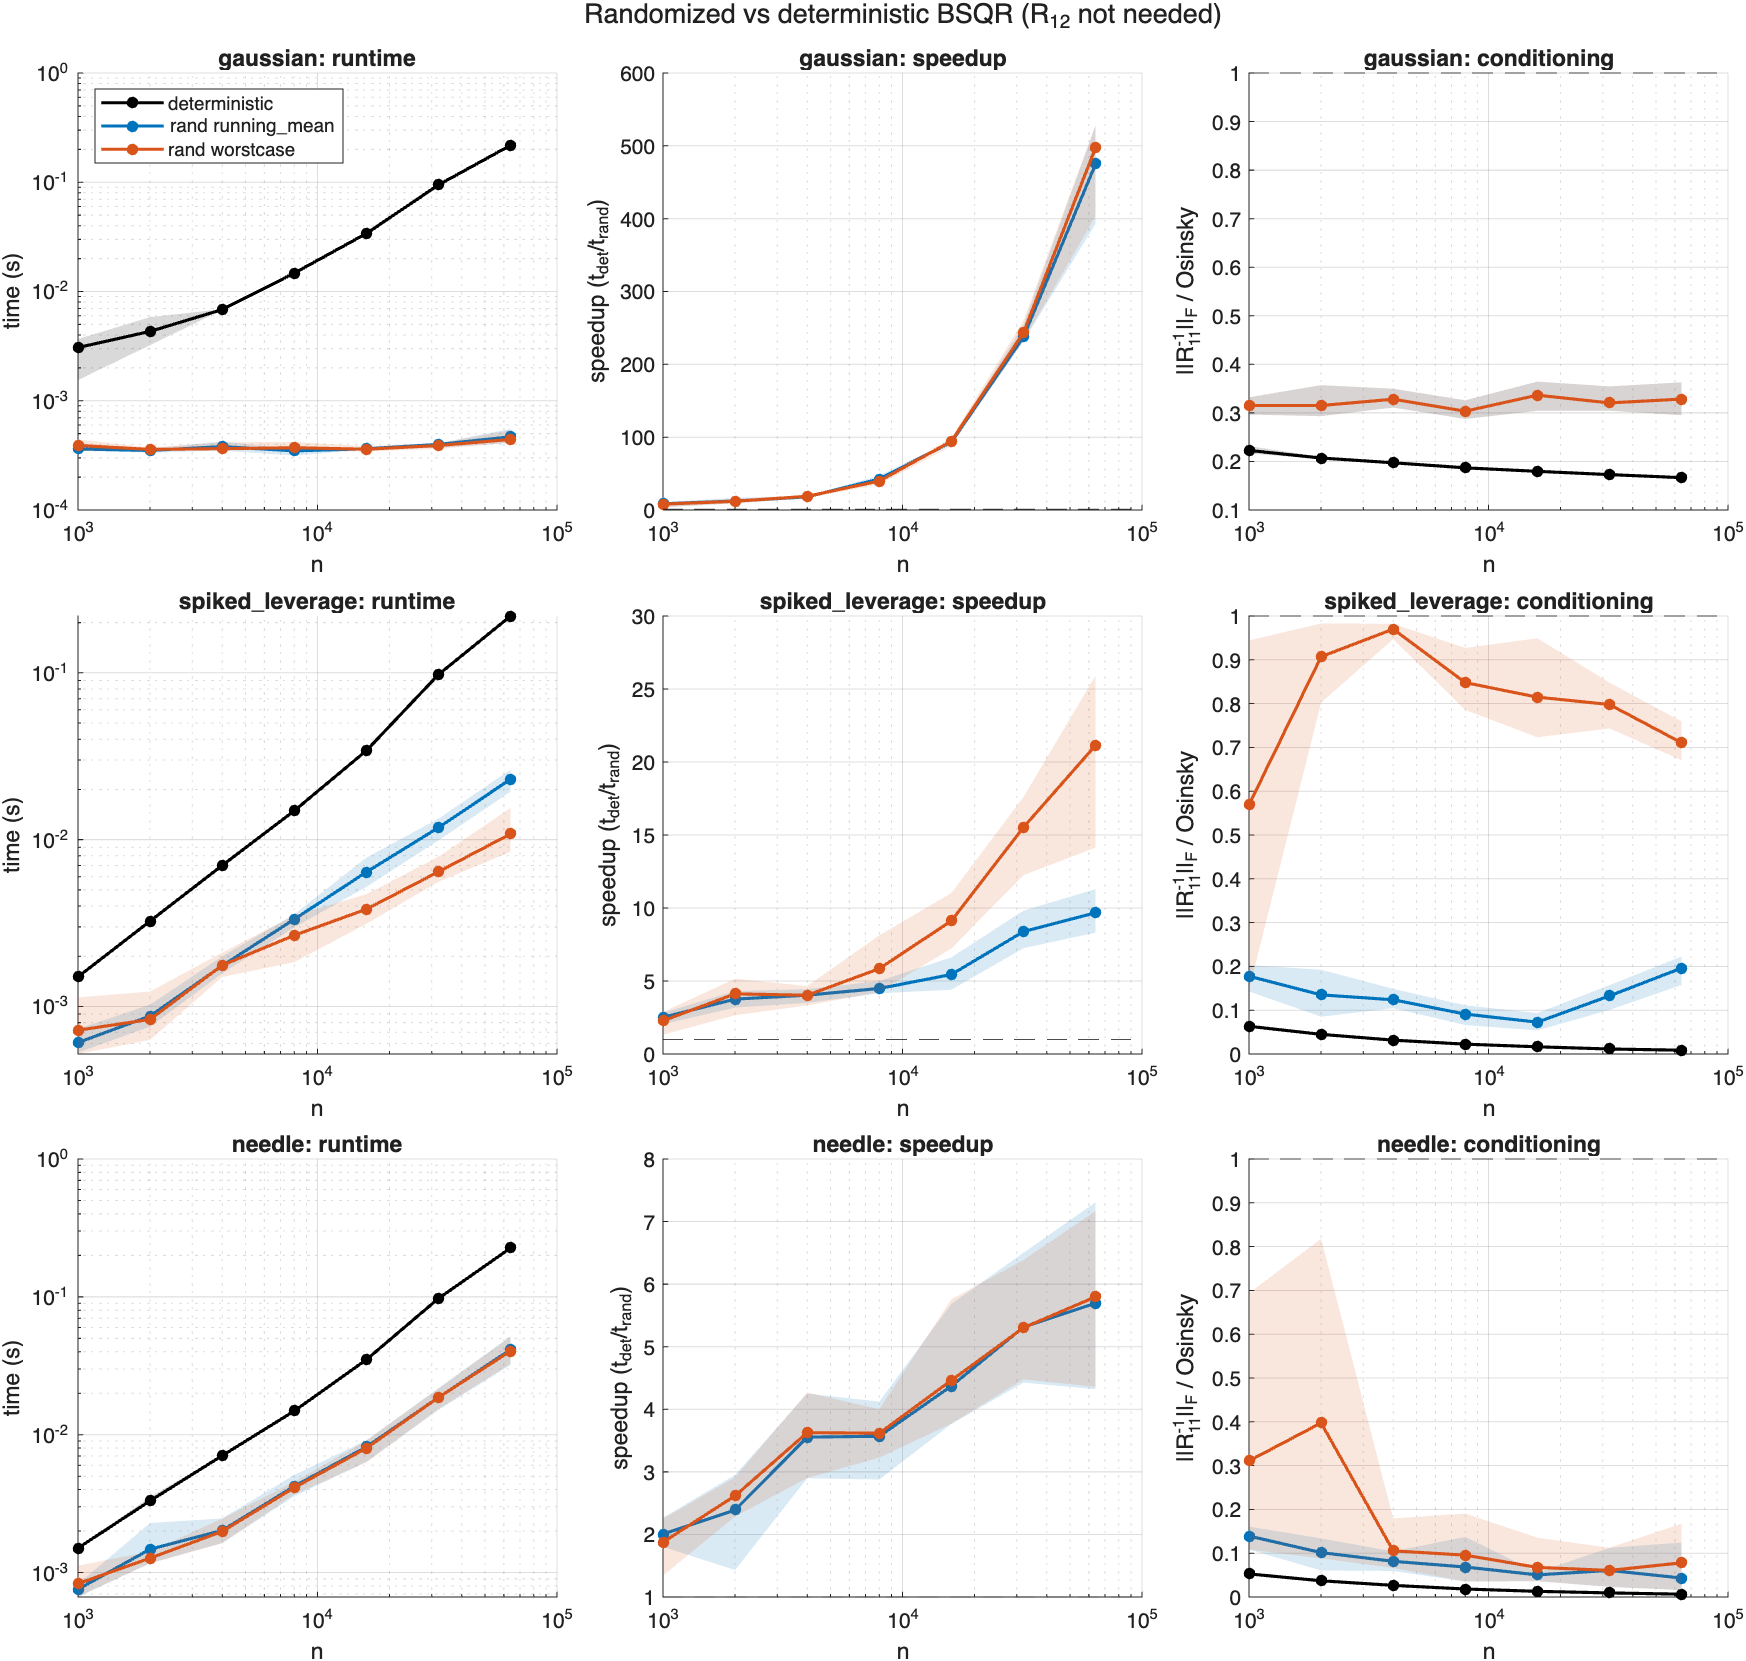
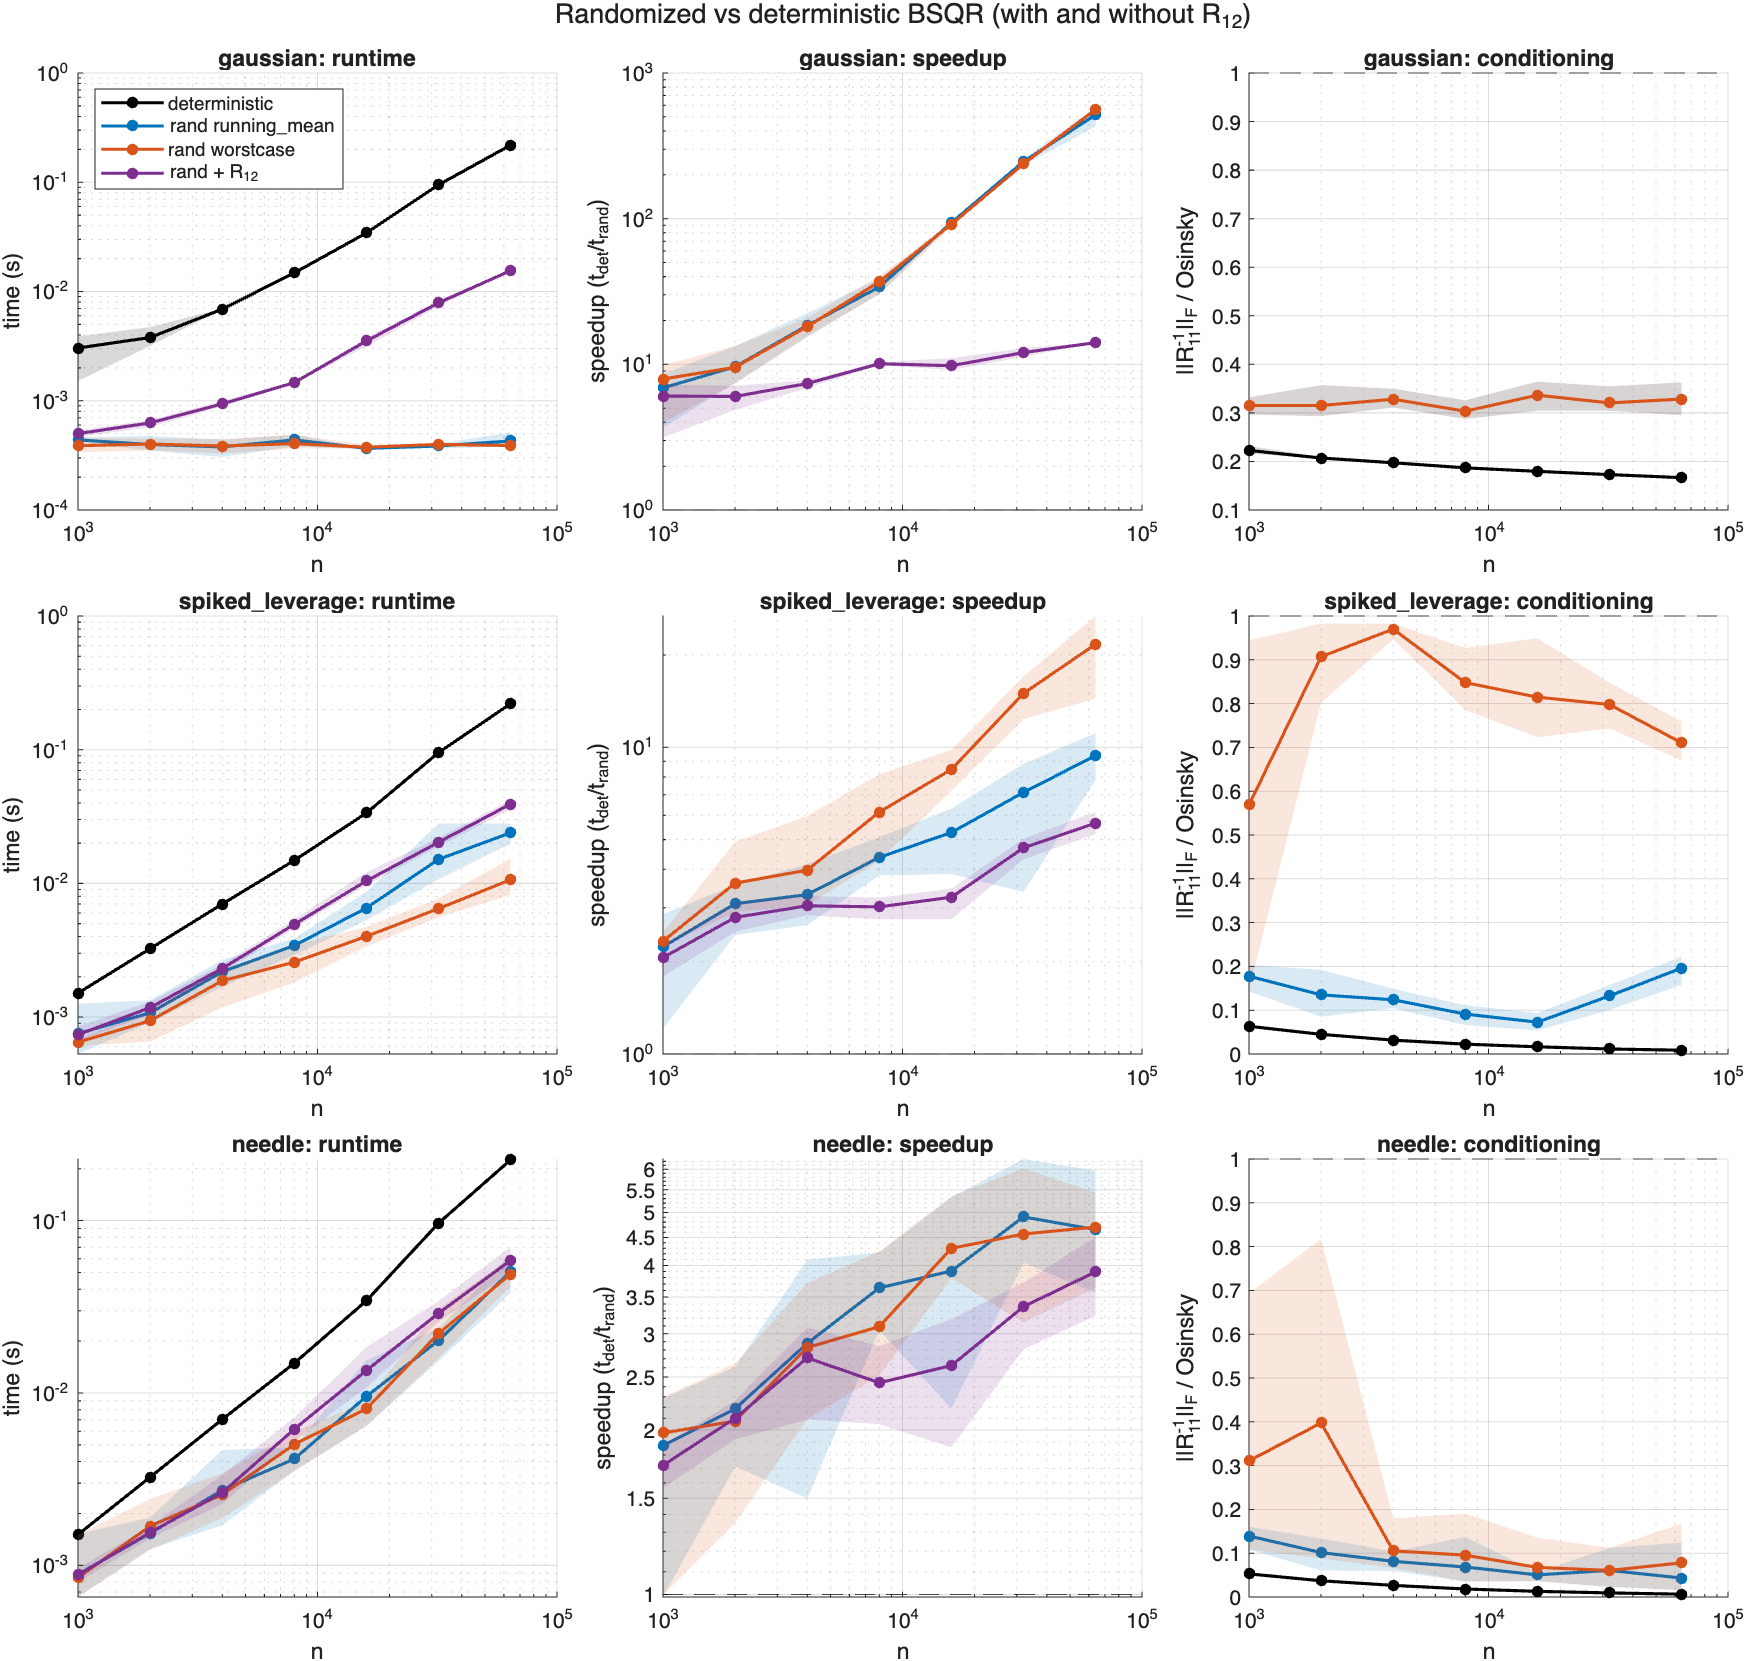
Add R12-desired performance measurement to the randomized BSQR study
When R12 is needed the randomized variant must apply the accumulated Q' to the
n-k leftover columns -- one O(nk^2) BLAS-3 pass, the same order as the
deterministic kernel's total work -- so the dramatic n-scaling collapses to a
constant factor. This adds that measurement everywhere:

- measure_rand gains a return_r12 flag (times the full 5-output call, nargout=5).
- exp_scaling adds a rand_r12 series (running_mean, uniform, return_r12).
- run_rand_benchmarks prints a running_mean+R12 row per size.
- fig_scaling gains the "rand + R12" line; speedup panels switched to log-y so
  the R12 line (~14x) and the no-R12 line (~500x) are both legible.

Findings (gaussian, k=64): with R12 the speedup settles at ~6x -> 10x -> 14x over
n = 1000 -> 8000 -> 64000 (vs 7x -> 34x -> 517x without R12); stress families
~4-6x. Still a win (one clean Q'-apply vs per-step W-maintenance), but the
order-of-magnitude advantage is specific to the R12-not-needed use case. Docs
sec 4/11 updated.

diff --git a/matlab_rand/benchmark/plot_rand_experiments.m b/matlab_rand/benchmark/plot_rand_experiments.m
@@ -29,6 +29,7 @@ end
 if ~isfolder(opt.plotdir); mkdir(opt.plotdir); end
 
 C = struct('det', [0 0 0], 'rm', [0.00 0.45 0.74], 'wc', [0.85 0.33 0.10], ...
+    'r12', [0.49 0.18 0.56], ...
     'uniform', [0.00 0.45 0.74], 'normweighted', [0.47 0.67 0.19]);
 
 plot_scaling(opt, C);
@@ -53,14 +54,16 @@ for fi = 1:numel(fams)
     band_line(ax, T, base & T.method == "det", 'n', 'time_s', C.det, 'deterministic');
     band_line(ax, T, base & T.method == "rand" & T.mode == "running_mean", 'n', 'time_s', C.rm, 'rand running\_mean');
     band_line(ax, T, base & T.method == "rand" & T.mode == "worstcase_allowance", 'n', 'time_s', C.wc, 'rand worstcase');
+    band_line(ax, T, base & T.method == "rand_r12", 'n', 'time_s', C.r12, 'rand + R_{12}');
     grid(ax, 'on'); xlabel(ax, 'n'); ylabel(ax, 'time (s)');
     title(ax, sprintf('%s: runtime', fam), 'Interpreter', 'none');
     if fi == 1; legend(ax, 'Location', 'northwest'); end
 
     % (2) speedup vs n (per seed det/rand ratio)
-    ax = nexttile(tl); hold(ax, 'on'); set(ax, 'XScale', 'log');
-    speedup_line(ax, T, base, 'running_mean', C.rm, 'running\_mean');
-    speedup_line(ax, T, base, 'worstcase_allowance', C.wc, 'worstcase');
+    ax = nexttile(tl); hold(ax, 'on'); set(ax, 'XScale', 'log', 'YScale', 'log');
+    speedup_line(ax, T, base, 'rand', 'running_mean', C.rm, 'running\_mean');
+    speedup_line(ax, T, base, 'rand', 'worstcase_allowance', C.wc, 'worstcase');
+    speedup_line(ax, T, base, 'rand_r12', 'running_mean', C.r12, 'rand + R_{12}');
     yline(ax, 1, 'k--', 'HandleVisibility', 'off');
     grid(ax, 'on'); xlabel(ax, 'n'); ylabel(ax, 'speedup (t_{det}/t_{rand})');
     title(ax, sprintf('%s: speedup', fam), 'Interpreter', 'none');
@@ -74,7 +77,7 @@ for fi = 1:numel(fams)
     grid(ax, 'on'); xlabel(ax, 'n'); ylabel(ax, '||R_{11}^{-1}||_F / Osinsky');
     title(ax, sprintf('%s: conditioning', fam), 'Interpreter', 'none');
 end
-title(tl, 'Randomized vs deterministic BSQR (R_{12} not needed)');
+title(tl, 'Randomized vs deterministic BSQR (with and without R_{12})');
 save_fig(fig, fullfile(opt.plotdir, 'fig_scaling'), opt.formats);
 end
 
@@ -168,7 +171,7 @@ plot(ax, x, ym, '-o', 'Color', color, 'MarkerFaceColor', color, ...
     'LineWidth', 1.5, 'MarkerSize', 4, 'DisplayName', name);
 end
 
-function speedup_line(ax, T, base, mode, color, name)
+function speedup_line(ax, T, base, method, mode, color, name)
 ns = unique(T.n(base));
 x = ns; ym = zeros(size(x)); ylo = ym; yhi = ym;
 for i = 1:numel(ns)
@@ -176,7 +179,7 @@ for i = 1:numel(ns)
     sp = [];
     for s = sd'
         td = T.time_s(base & T.method == "det" & T.n == ns(i) & T.seed == s);
-        tr = T.time_s(base & T.method == "rand" & T.mode == string(mode) & T.n == ns(i) & T.seed == s);
+        tr = T.time_s(base & T.method == string(method) & T.mode == string(mode) & T.n == ns(i) & T.seed == s);
         if ~isempty(td) && ~isempty(tr); sp(end+1) = td(1) / tr(1); end %#ok<AGROW>
     end
     ym(i) = mean(sp); ylo(i) = min(sp); yhi(i) = max(sp);

diff --git a/matlab_rand/benchmark/run_rand_experiments.m b/matlab_rand/benchmark/run_rand_experiments.m
@@ -63,6 +63,12 @@ for fi = 1:numel(families)
                 rows(end+1, :) = {fam, k, n, s, 'rand', modes{mi}, 'uniform', 16, ...
                     r.time, r.frobinv, r.osinsky, r.tested_per_k}; %#ok<AGROW>
             end
+            % R12 desired: same selection (running_mean, uniform) plus the final
+            % Q'-apply to the leftover columns. Quantifies the advantage lost
+            % when R12 cannot be skipped.
+            r = measure_rand(M, k, 'running_mean', 'uniform', 16, 1000 * fi + s, true);
+            rows(end+1, :) = {fam, k, n, s, 'rand_r12', 'running_mean', 'uniform', 16, ...
+                r.time, r.frobinv, r.osinsky, r.tested_per_k}; %#ok<AGROW>
         end
         fprintf('  scaling %-16s n=%-6d done\n', fam, n);
     end
@@ -116,11 +122,22 @@ write_rows(rows, fullfile(opt.outdir, 'exp_sampling.csv'));
 end
 
 % ===========================================================================
-function out = measure_rand(M, k, mode, sampling, block, seed)
-f = @() bsqr_rand_mex(M, 'k', k, 'check_finite', false, 'block_size', block, ...
-    'threshold_mode', mode, 'sampling', sampling, 'seed', seed);
-out.time = timeit(f, 3);
-[~, ~, ~, st] = f();
+function out = measure_rand(M, k, mode, sampling, block, seed, return_r12)
+if nargin < 7; return_r12 = false; end
+if return_r12
+    % R12 desired: the kernel must apply the accumulated Q' to the leftover
+    % columns (one O(n k^2) pass). Time the full 5-output call.
+    f = @() bsqr_rand_mex(M, 'k', k, 'check_finite', false, 'block_size', block, ...
+        'threshold_mode', mode, 'sampling', sampling, 'return_r12', true, 'seed', seed);
+    out.time = timeit(f, 5);
+    [~, ~, ~, st] = bsqr_rand_mex(M, 'k', k, 'check_finite', false, 'block_size', block, ...
+        'threshold_mode', mode, 'sampling', sampling, 'return_r12', true, 'seed', seed);
+else
+    f = @() bsqr_rand_mex(M, 'k', k, 'check_finite', false, 'block_size', block, ...
+        'threshold_mode', mode, 'sampling', sampling, 'seed', seed);
+    out.time = timeit(f, 3);
+    [~, ~, ~, st] = f();
+end
 out.frobinv = st.frob_inv;
 out.osinsky = st.osinsky_bound;
 out.tested_per_k = st.total_tested / k;

diff --git a/matlab_rand/benchmark/run_rand_benchmarks.m b/matlab_rand/benchmark/run_rand_benchmarks.m
@@ -71,6 +71,21 @@ for ci = 1:numel(opt.sizes)
         rows(end+1, :) = {opt.family, k, n, mode, t_rand, t_det, speedup, ...
             st.frob_inv, frobinv_det, st.osinsky_bound, st.total_tested/k}; %#ok<AGROW>
     end
+
+    % R12 desired: running_mean selection plus the final Q'-apply to the
+    % leftover columns (the O(n k^2) work the deterministic baseline already
+    % includes in R). Shows how much speedup survives when R12 is required.
+    t_r12 = timeit(@() bsqr_rand_mex(M, 'k', k, 'check_finite', false, ...
+        'block_size', opt.block_size, 'threshold_mode', 'running_mean', ...
+        'return_r12', true, 'seed', opt.seed + ci), 5);
+    [~, ~, ~, st12] = bsqr_rand_mex(M, 'k', k, 'check_finite', false, ...
+        'block_size', opt.block_size, 'threshold_mode', 'running_mean', ...
+        'return_r12', true, 'seed', opt.seed + ci);
+    fprintf('%-12s %-20s %11.3f %11.3f %8.2f %8.2f %9.1f\n', ...
+        sprintf('%dx%d', k, n), 'running_mean+R12', t_r12*1e3, t_det*1e3, ...
+        t_det/t_r12, st12.frob_inv/frobinv_det, st12.total_tested/k);
+    rows(end+1, :) = {opt.family, k, n, 'running_mean+R12', t_r12, t_det, t_det/t_r12, ...
+        st12.frob_inv, frobinv_det, st12.osinsky_bound, st12.total_tested/k}; %#ok<AGROW>
 end
 
 results = cell2table(rows, 'VariableNames', {'family', 'k', 'n', 'mode', ...

diff --git a/docs/RANDOMIZED_BSQR_PLAN.md b/docs/RANDOMIZED_BSQR_PLAN.md
@@ -204,9 +204,9 @@ columns), `coherent` (clustered/redundant columns), `needle` (~k useful columns
 hidden among n near-null ones — hardest for uniform sampling). The sampler's cost
 is set by how concentrated the leverage `ell_j = ||M(:,j)||^2` is.
 
-1. **`fig_scaling`** — time, speedup `t_det/t_rand`, and conditioning
-   `||R11^{-1}||_F / sqrt(k(n-k+1))` vs `n` (per family), deterministic vs both
-   threshold modes.
+1. **`fig_scaling`** — time, speedup `t_det/t_rand` (log-y), and conditioning
+   `||R11^{-1}||_F / sqrt(k(n-k+1))` vs `n` (per family): deterministic vs both
+   threshold modes vs the **R12-desired** randomized path (`rand + R12`).
 2. **`fig_blocksize`** — time, columns tested/`k`, and conditioning vs block
    size, uniform vs norm-weighted sampling.
 3. **`fig_sampling`** — uniform vs norm-weighted across all families
@@ -220,6 +220,17 @@ is set by how concentrated the leverage `ell_j = ||M(:,j)||^2` is.
   `1000 → 8000 → 32000 → 64000`. On the stress families with *uniform* sampling
   the win is smaller (≈6–10× at n=64000) because the sampler tests many columns —
   fixed by norm-weighted sampling (below).
+- **When R12 *is* needed** (the `rand_r12` series / `fig_scaling` purple line),
+  the randomized method must apply the accumulated `Q'` to the `n-k` leftover
+  columns — one `O(nk^2)` BLAS-3 pass, the same order as the deterministic
+  kernel's total work. The dramatic n-scaling therefore collapses to a constant
+  factor: `gaussian` `t_det/t_rand` settles at `~6× → 10× → 14×` over
+  `n = 1000 → 8000 → 64000` (vs `7× → 34× → 517×` without R12), and the stress
+  families to ~4–6×. It still wins because it does one clean `Q'`-apply instead of
+  the deterministic kernel's per-step W-maintenance over every column — but this
+  is the regime where the advantage is a modest constant, not orders of magnitude.
+  Bottom line: the big win is specifically the *R12-not-needed* (subset +
+  reflectors + R11) use case.
 - **Conditioning.** `running_mean` keeps `||R11^{-1}||_F` far under the bound on
   *all* families (ratio 0.06–0.32) and ~1.7–2× the deterministic value. The bound
   is never violated — the stress matrices stress the *sample count*, not quality.
